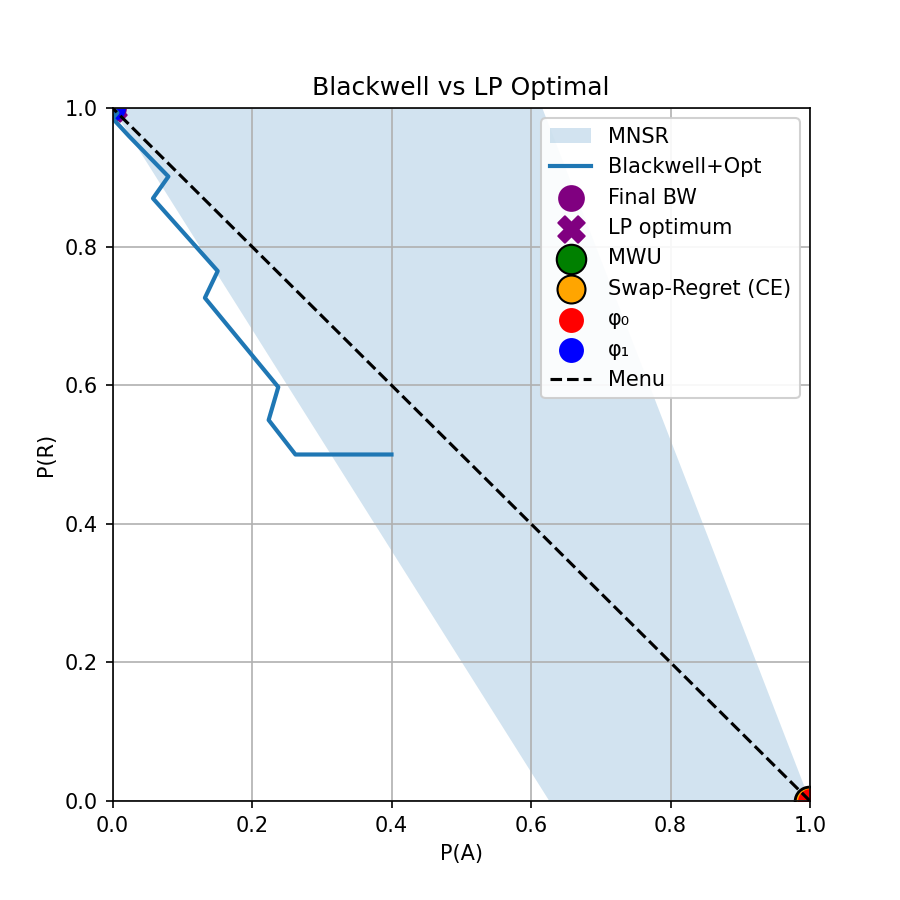
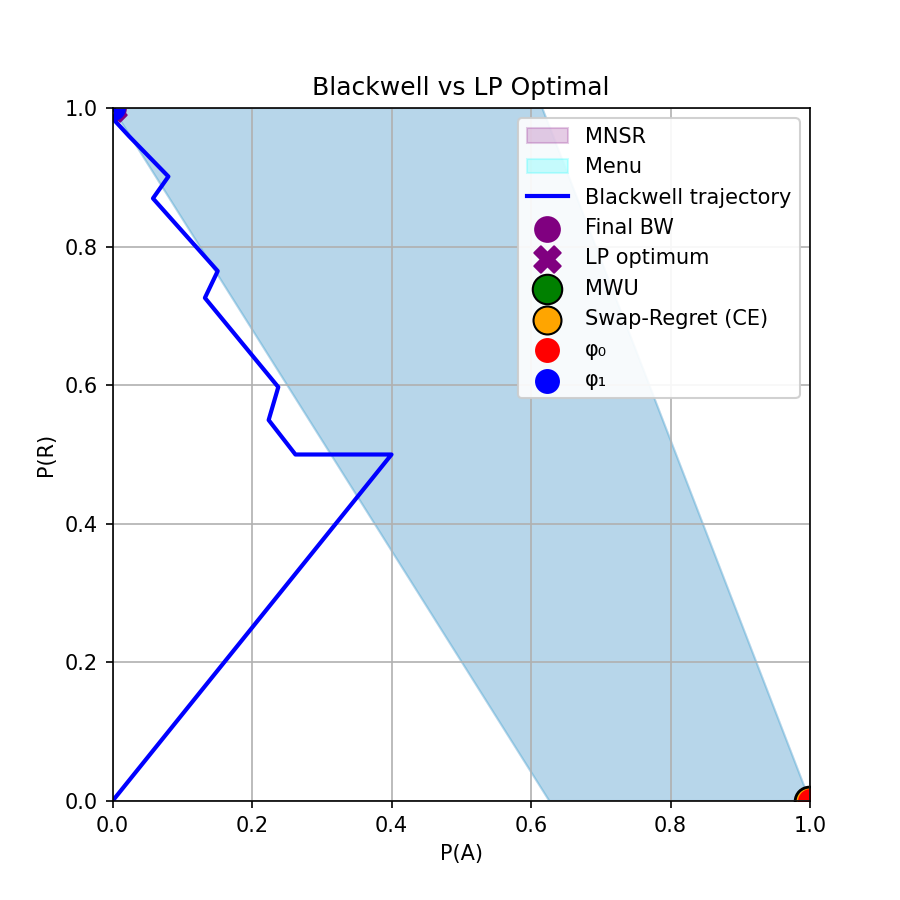
added trajectory

diff --git a/main.py b/main.py
@@ -89,6 +89,51 @@ def run_swap_regret(T=5000, eta=0.1):
 
     return phi / T
 
+def compute_menu_points(phi0, phi1):
+    mnsr = compute_MNSR()
+
+    # include LP points
+    all_points = mnsr + [phi0, phi1]
+
+    # project to 2D
+    proj = np.array([project(p) for p in all_points])
+
+    return proj
+
+def compute_menu_hull(phi0, phi1):
+    pts = compute_menu_points(phi0, phi1)
+
+    hull = ConvexHull(pts)
+
+    return pts, hull
+
+def plot_menu_region(phi0, phi1):
+    pts, hull = compute_menu_hull(phi0, phi1)
+
+    plt.figure(figsize=(6,6))
+
+    # fill full menu region
+    plt.fill(pts[hull.vertices, 0],
+             pts[hull.vertices, 1],
+             alpha=0.3,
+             color="cyan",
+             label="Menu region")
+
+    # boundary points
+    plt.plot(pts[hull.vertices, 0],
+             pts[hull.vertices, 1],
+             'k-')
+
+    plt.xlim(0,1)
+    plt.ylim(0,1)
+    plt.xlabel("P(A)")
+    plt.ylabel("P(R)")
+    plt.title("Full Menu Region")
+
+    plt.legend()
+    plt.grid(True)
+
+    plt.show()
 
 # =============================
 # MNSR REGION
@@ -203,6 +248,7 @@ def solve_full_lp():
 # =============================
 # BLACKWELL (OPTIMIZED)
 # =============================
+
 def blackwell_step(phi, phi_proj):
     d = phi - phi_proj
 
@@ -253,19 +299,41 @@ def run_blackwell(phi0, phi1, T=5000, gamma=0.05, lam=0.5):
 # =============================
 # PLOTTING
 # =============================
+
 def plot_all(phi_nr, phi_bw, phi_lp, phi0, phi1, history, phi_swap):
     plt.figure(figsize=(6,6))
 
     # MNSR
-    pts = np.array([project(p) for p in compute_MNSR()])
-    hull = ConvexHull(pts)
-    plt.fill(pts[hull.vertices,0], pts[hull.vertices,1],
-             alpha=0.2, label="MNSR")
+    pts_mnsr = np.array([project(p) for p in compute_MNSR()])
+    hull_mnsr = ConvexHull(pts_mnsr)
+    plt.fill(pts_mnsr[hull_mnsr.vertices,0], pts_mnsr[hull_mnsr.vertices,1],
+             alpha=0.2, color="purple", label="MNSR")
+
+    pts_menu, hull_menu = compute_menu_hull(phi0, phi1)
+
+    plt.fill(pts_menu[hull_menu.vertices, 0],
+             pts_menu[hull_menu.vertices, 1],
+             alpha=0.2,
+             color="cyan",
+             label="Menu")
+
+    # # boundary
+    # plt.plot(menu_proj[hull_menu.vertices, 0],
+    #          menu_proj[hull_menu.vertices, 1],
+    #          color="blue", linestyle="--", linewidth=2)
+
 
     # Blackwell trajectory
     traj = np.array([project(p) for p in history])
-    plt.plot(traj[:,0], traj[:,1], label="Blackwell+Opt", linewidth=2)
 
+    # prepend true start
+    start = np.array([[0.0, 0.0]])
+    traj_full = np.vstack([start, traj])
+    plt.plot(traj_full[:, 0],
+             traj_full[:, 1],
+             color="blue",
+             linewidth=2,
+             label="Blackwell trajectory")
     # points
     plt.scatter(*project(phi_bw), color="purple", s=140, label="Final BW")
     plt.scatter(*project(phi_lp), color="purple", marker="X", s=160, label="LP optimum")
@@ -274,11 +342,6 @@ def plot_all(phi_nr, phi_bw, phi_lp, phi0, phi1, history, phi_swap):
 
     plt.scatter(*project(phi0), color="red", s=120, label="φ₀")
     plt.scatter(*project(phi1), color="blue", s=120, label="φ₁")
-
-    # menu line
-    x0,y0 = project(phi0)
-    x1,y1 = project(phi1)
-    plt.plot([x0,x1],[y0,y1],'k--', label="Menu")
 
     plt.xlim(0,1)
     plt.ylim(0,1)
